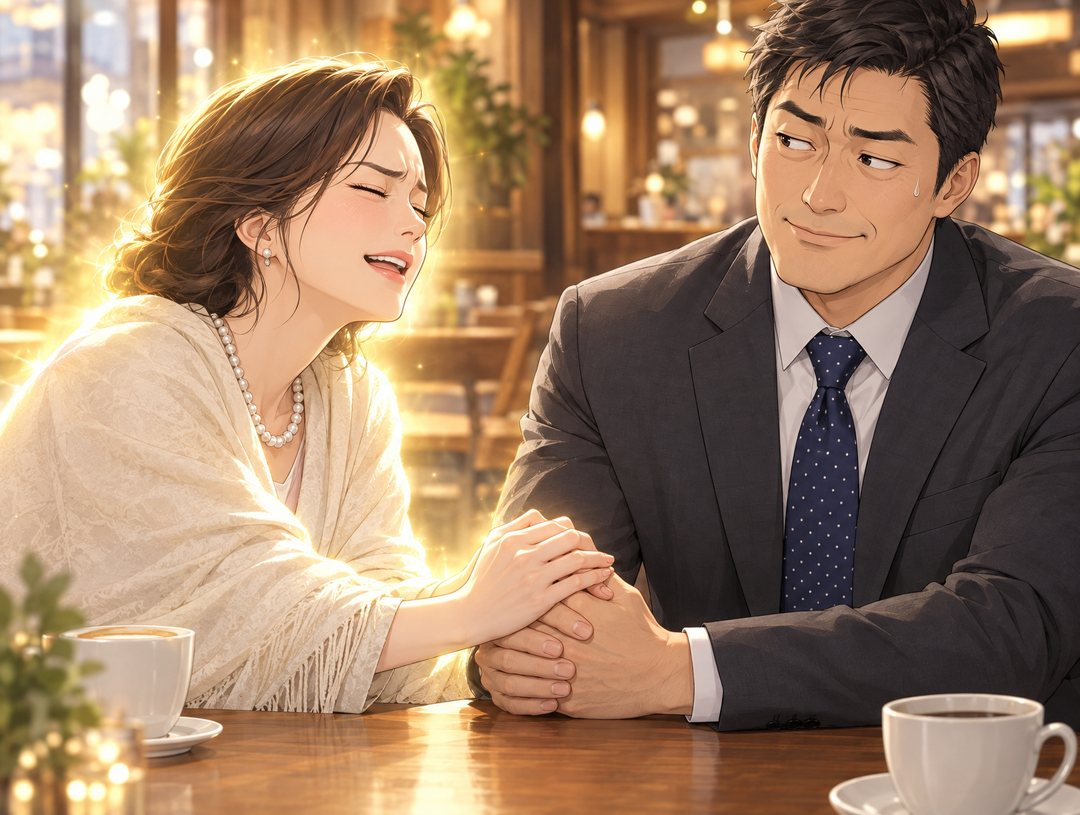
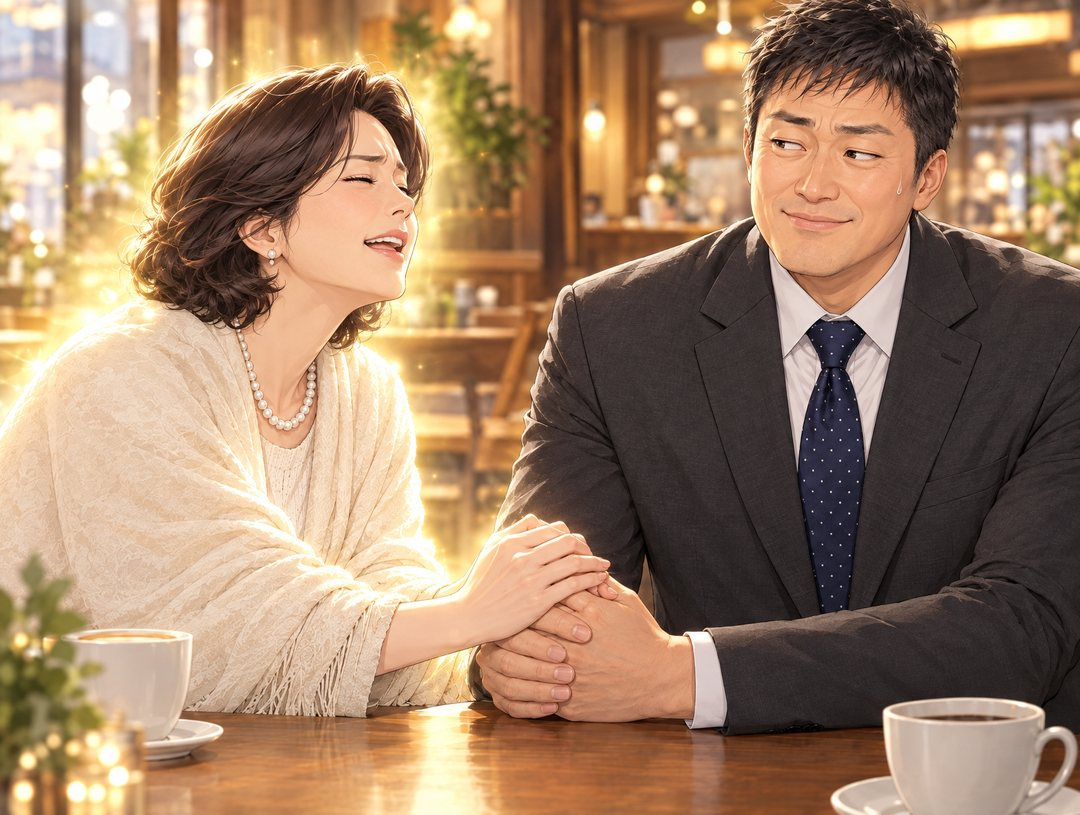
그림 일관성 수정 9컷, 모바일 글자 크기 확대

diff --git a/index.html b/index.html
@@ -17,6 +17,7 @@
 :root{--navy:#0d1830;--navy2:#16254a;--gold:#f2b544;--ink:#1b1f2a;--paper:#f6f3ee;--kim:#2c4a8a;--noh:#3a3f48;--lee:#2e6b66;--bad:#8a5a44;--jr:#7a5cc0}
 *{box-sizing:border-box;margin:0;padding:0}
 html{background:#0b1222}
+html{-webkit-text-size-adjust:100%;text-size-adjust:100%}
 body{font-family:Pretendard,-apple-system,"Apple SD Gothic Neo",sans-serif;color:var(--ink);background:var(--paper);max-width:720px;margin:0 auto;-webkit-font-smoothing:antialiased;word-break:keep-all;line-height:1.5}
 img{display:block;width:100%;height:auto}
 .panel{position:relative;margin:0}
@@ -25,75 +26,75 @@ img{display:block;width:100%;height:auto}
 .gap.l{height:56px}
 /* cover */
 .cover{position:relative;background:var(--navy);color:#fff;overflow:hidden}
-.cover img{opacity:.92}
+.cover img{opacity:.92;height:min(118vw,600px);object-fit:cover;object-position:50% 40%}
 .cover .shade{position:absolute;inset:0;background:linear-gradient(180deg,rgba(9,16,34,.0) 35%,rgba(9,16,34,.92) 100%)}
 .cover .t{position:absolute;left:0;right:0;bottom:0;padding:0 24px 26px}
-.kicker{display:inline-block;font-size:12px;font-weight:700;letter-spacing:.04em;color:var(--navy);background:var(--gold);padding:5px 10px;border-radius:999px}
+.kicker{display:inline-block;font-size:13px;font-weight:700;letter-spacing:.04em;color:var(--navy);background:var(--gold);padding:5px 10px;border-radius:999px}
 .cover h1{font-size:46px;line-height:1.08;font-weight:900;margin:12px 0 6px;letter-spacing:-.02em}
-.cover p{font-size:17px;font-weight:600;color:#dfe6f5}
+.cover p{font-size:19px;font-weight:600;color:#dfe6f5}
 /* narration */
-.nar{margin:0 22px;padding:14px 18px;background:var(--navy);color:#f3eee2;border-left:4px solid var(--gold);font-size:16.5px;font-weight:600;border-radius:4px}
+.nar{margin:0 16px;padding:15px 18px;background:var(--navy);color:#f3eee2;border-left:4px solid var(--gold);font-size:18.5px;line-height:1.55;font-weight:600;border-radius:4px}
 .nar b{color:var(--gold)}
 /* chapter */
 .chap{background:var(--navy);color:#fff;padding:34px 24px 30px;text-align:left}
-.chap .no{font-size:13px;font-weight:800;color:var(--gold);letter-spacing:.12em}
-.chap h2{font-size:28px;font-weight:900;margin:6px 0 4px;letter-spacing:-.01em}
-.chap .sub{font-size:15px;color:#b9c4dc;font-weight:500}
+.chap .no{font-size:14px;font-weight:800;color:var(--gold);letter-spacing:.12em}
+.chap h2{font-size:30px;font-weight:900;margin:6px 0 4px;letter-spacing:-.01em}
+.chap .sub{font-size:16.5px;color:#b9c4dc;font-weight:500}
 /* bubbles */
-.say{display:flex;flex-direction:column;padding:0 18px;gap:10px}
-.b{position:relative;max-width:84%;background:#fff;border:2px solid var(--ink);border-radius:22px;padding:11px 16px 12px;font-size:17px;font-weight:600;box-shadow:3px 3px 0 rgba(0,0,0,.08)}
-.b .who{display:block;font-size:11.5px;font-weight:800;letter-spacing:.02em;margin-bottom:3px;opacity:.9}
+.say{display:flex;flex-direction:column;padding:0 14px;gap:11px}
+.b{position:relative;max-width:90%;background:#fff;border:2px solid var(--ink);border-radius:22px;padding:12px 17px 13px;font-size:19px;line-height:1.5;font-weight:600;box-shadow:3px 3px 0 rgba(0,0,0,.08)}
+.b .who{display:block;font-size:13px;font-weight:800;letter-spacing:.02em;margin-bottom:3px;opacity:.9}
 .b.L{align-self:flex-start;border-bottom-left-radius:6px}
 .b.R{align-self:flex-end;border-bottom-right-radius:6px}
 .b.C{align-self:center}
 .b.think{border-style:dashed;background:#fbfaf6;color:#3b4150;font-weight:500}
-.b.shout{font-size:20px;font-weight:900;border-width:3px;transform:rotate(-1deg)}
+.b.shout{font-size:22px;font-weight:900;border-width:3px;transform:rotate(-1deg)}
 .b.phone{background:#eef6ff;border-color:#4b7bd1;border-radius:14px}
 .b.phone .who{color:#2d5fb8}
 .kim .who{color:var(--kim)} .noh .who{color:var(--noh)} .lee .who{color:var(--lee)} .bad .who{color:var(--bad)} .jr .who{color:var(--jr)}
 .kim{border-color:var(--kim)} .noh{border-color:#2a2e35} .lee{border-color:var(--lee)} .bad{border-color:#9b7a66} .jr{border-color:var(--jr)}
 .b.think{border-color:#9aa1ad}
-.sfx{text-align:center;font-weight:900;font-size:26px;color:var(--navy2);letter-spacing:.06em;transform:rotate(-3deg)}
+.sfx{text-align:center;font-weight:900;font-size:30px;color:var(--navy2);letter-spacing:.06em;transform:rotate(-3deg)}
 /* cast */
 .cast{display:grid;grid-template-columns:repeat(3,1fr);gap:8px;padding:0 14px}
 .cast>div{background:#fff;border-radius:12px;padding:12px 8px;text-align:center;border:1px solid #e3ddd2}
-.cast .r{font-size:12px;color:#6b7280;font-weight:700}
-.cast .n{font-size:17px;font-weight:900;margin:2px 0}
-.cast .j{display:inline-block;font-size:12px;font-weight:800;color:#fff;padding:3px 9px;border-radius:999px;margin-top:3px}
+.cast .r{font-size:13.5px;color:#6b7280;font-weight:700}
+.cast .n{font-size:19px;font-weight:900;margin:2px 0}
+.cast .j{display:inline-block;font-size:13.5px;font-weight:800;color:#fff;padding:3px 9px;border-radius:999px;margin-top:3px}
 /* tip */
-.tip{margin:0 18px;background:#fff7e3;border:1.5px solid #e9c46a;border-radius:14px;padding:15px 17px}
-.tip h4{font-size:14px;font-weight:900;color:#8a5a00;margin-bottom:6px}
-.tip p{font-size:15px;font-weight:500;color:#3a3324}
-.tip ul{margin:6px 0 0 18px;font-size:15px;color:#3a3324}
+.tip{margin:0 14px;background:#fff7e3;border:1.5px solid #e9c46a;border-radius:14px;padding:15px 17px}
+.tip h4{font-size:16px;font-weight:900;color:#8a5a00;margin-bottom:6px}
+.tip p{font-size:17px;line-height:1.6;font-weight:500;color:#3a3324}
+.tip ul{margin:6px 0 0 18px;font-size:17px;line-height:1.6;color:#3a3324}
 /* phone ui */
-.phoneui{margin:0 auto;width:250px;border-radius:34px;background:#111;padding:10px;box-shadow:0 14px 30px rgba(0,0,0,.25)}
+.phoneui{margin:0 auto;width:270px;border-radius:34px;background:#111;padding:10px;box-shadow:0 14px 30px rgba(0,0,0,.25)}
 .phoneui .scr{border-radius:26px;min-height:300px;padding:26px 18px 22px;color:#fff;text-align:center;display:flex;flex-direction:column;justify-content:space-between}
 .call{background:linear-gradient(180deg,#3b4a63,#1a2233)}
-.call .cap{font-size:12px;opacity:.75}
-.call .nm{font-size:25px;font-weight:800;margin-top:6px}
-.call .sb{font-size:13px;opacity:.75;margin-top:3px}
+.call .cap{font-size:14px;opacity:.75}
+.call .nm{font-size:27px;font-weight:800;margin-top:6px}
+.call .sb{font-size:15px;opacity:.75;margin-top:3px}
 .call .btns{display:flex;justify-content:space-around;margin-top:40px}
-.call .btns span{width:56px;height:56px;border-radius:50%;display:flex;align-items:center;justify-content:center;font-size:12px;font-weight:700}
+.call .btns span{width:56px;height:56px;border-radius:50%;display:flex;align-items:center;justify-content:center;font-size:14px;font-weight:700}
 .call .no{background:#e5484d}.call .yes{background:#30a46c}
 .phoneui .bank{background:#fff;color:#111;text-align:left}
-.bank .cap{font-size:12px;color:#6b7280}
+.bank .cap{font-size:14px;color:#6b7280}
 .bank .amt{font-size:30px;font-weight:900;margin:6px 0 2px}
-.bank .to{font-size:14px;color:#374151}
-.bank .warn{font-size:11.5px;color:#9ca3af;margin-top:10px}
-.bank .go{margin-top:30px;background:#3182f6;color:#fff;border-radius:14px;text-align:center;padding:14px;font-weight:800;font-size:16px}
+.bank .to{font-size:16px;color:#374151}
+.bank .warn{font-size:13.5px;color:#9ca3af;margin-top:10px}
+.bank .go{margin-top:30px;background:#3182f6;color:#fff;border-radius:14px;text-align:center;padding:14px;font-weight:800;font-size:17px}
 /* end */
 .verse{background:var(--navy);color:#fff;padding:38px 26px;text-align:center}
-.verse q{display:block;font-size:20px;line-height:1.6;font-weight:700;quotes:none;color:#f6f0e0}
+.verse q{display:block;font-size:21px;line-height:1.6;font-weight:700;quotes:none;color:#f6f0e0}
 .verse q em{font-style:normal;color:var(--gold)}
-.verse cite{display:block;margin-top:12px;font-size:13px;color:#aab6d0;font-style:normal}
+.verse cite{display:block;margin-top:12px;font-size:14.5px;color:#aab6d0;font-style:normal}
 .end{background:#0b1222;color:#e8ecf5;padding:34px 24px 46px;text-align:center}
-.end .t1{font-size:15px;color:#aab6d0;font-weight:600}
+.end .t1{font-size:16.5px;color:#aab6d0;font-weight:600}
 .end .t2{font-size:26px;font-weight:900;margin:8px 0 4px;color:#fff}
-.end .t3{font-size:17px;font-weight:700;color:var(--gold)}
-.end .t4{font-size:15px;margin-top:14px;color:#cfd7e8}
-.end a.btn{display:inline-block;margin-top:22px;background:var(--gold);color:var(--navy);font-weight:900;font-size:16px;padding:13px 22px;border-radius:999px;text-decoration:none}
-.end .fine{margin-top:26px;font-size:11.5px;color:#7d8aa6;line-height:1.6}
-.top{position:sticky;top:0;z-index:5;background:rgba(13,24,48,.92);backdrop-filter:blur(8px);color:#fff;font-size:12.5px;font-weight:700;padding:9px 16px;display:flex;justify-content:space-between}
+.end .t3{font-size:18.5px;font-weight:700;color:var(--gold)}
+.end .t4{font-size:17px;margin-top:14px;color:#cfd7e8}
+.end a.btn{display:inline-block;margin-top:22px;background:var(--gold);color:var(--navy);font-weight:900;font-size:17px;padding:14px 24px;border-radius:999px;text-decoration:none}
+.end .fine{margin-top:26px;font-size:13px;color:#7d8aa6;line-height:1.6}
+.top{position:sticky;top:0;z-index:5;background:rgba(13,24,48,.92);backdrop-filter:blur(8px);color:#fff;font-size:13.5px;font-weight:700;padding:10px 16px;display:flex;justify-content:space-between}
 .top span:last-child{color:var(--gold)}
 </style>
 </head>
@@ -147,7 +148,7 @@ const S=[
 ['gap'],
 ['img','s08'],
 ['gap'],
-['say',[['L',B,'낯선 여성','목사님! 명함 잘 받았어요!<br>저희 진짜 한번 찾아갈게요!'],['L',B,'낯선 남성','목사님! 가방! 가방은 두고 가시면 안 되지예!'],['R',K+' shout',NM.kim,'CTS 틀어놓고 기다리겠심더~!!']]],
+['say',[['L',B,'낯선 여성','목사님! 명함 잘 받았어요!<br>저희 진짜 한번 찾아갈게요!'],['L',B,'낯선 남성','목사님! 가방! 가방은 두고 가시면 안 되지예!'],['R',K+' shout',NM.kim,'CTS 틀어놓고 <span style="white-space:nowrap">기다리겠심더~!!</span>']]],
 ['gap'],
 ['tip','이런 접근은 조심하세요','길에서 처음 본 사람이 <b>“인상이 좋으시네요”, “조상님 덕”, “기운이 맑으시네요”</b>로 말을 걸면 정중히 지나가세요. <br>(목사님이 아니시라면요.)'],
 ['gap','l'],
@@ -248,8 +249,8 @@ const app=document.getElementById('app');
 const h=(t,c,html)=>{const e=document.createElement(t);if(c)e.className=c;if(html!=null)e.innerHTML=html;return e};
 for(const it of S){
   const k=it[0];
-  if(k==='cover'){const d=h('section','cover');d.innerHTML='<img src="s01.jpg" alt="부산, 전주, 청주에서 대전으로 모이는 세 갈래 빛"><div class="shade"></div><div class="t"><span class="kicker">AI First 엑소더스 · 킥오프 특별편</span><h1>세 겹 줄</h1><p>총국장님들의 대전 가는 길</p></div>';app.append(d)}
-  else if(k==='img'){const f=h('figure','panel');f.innerHTML=`<img loading="lazy" src="${it[1]}.jpg" alt="">`;app.append(f)}
+  if(k==='cover'){const d=h('section','cover');d.innerHTML='<img src="s01.jpg?v=3" alt="부산, 전주, 청주에서 대전으로 모이는 세 갈래 빛"><div class="shade"></div><div class="t"><span class="kicker">AI First 엑소더스 · 킥오프 특별편</span><h1>세 겹 줄</h1><p>총국장님들의 대전 가는 길</p></div>';app.append(d)}
+  else if(k==='img'){const f=h('figure','panel');f.innerHTML=`<img loading="lazy" src="${it[1]}.jpg?v=3" alt="">`;app.append(f)}
   else if(k==='gap'){app.append(h('div','gap'+(it[1]?' '+it[1]:'')))}
   else if(k==='nar'){app.append(h('div','nar',it[1]))}
   else if(k==='sfx'){app.append(h('div','sfx',it[1]))}
@@ -261,8 +262,8 @@ for(const it of S){
     if(it[1]==='call') app.append(h('div','phoneui','<div class="scr call"><div><div class="cap">휴대전화 · 수신 전화</div><div class="nm">담임목사님</div><div class="sb">오전 7:52</div></div><div class="btns"><span class="no">거절</span><span class="yes">수락</span></div></div>'));
     else app.append(h('div','phoneui','<div class="scr bank"><div><div class="cap">이체 확인</div><div class="amt">3,000,000원</div><div class="to">받는 분 · (주)글로벌미션센터</div><div class="warn">처음 보내는 계좌입니다</div></div><div class="go">보내기</div></div>'));
   }
-  else if(k==='verse'){app.append(h('section','verse','<q>한 사람이면 패하겠거니와 두 사람이면 맞설 수 있나니<br><em>세 겹 줄은 쉽게 끊어지지 아니하느니라</em></q><cite>전도서 4장 12절 (개역개정)</cite>'))}
-  else if(k==='end'){app.append(h('section','end','<div class="t1">목사, 장로, 안수집사, 그리고 우리 모두</div><div class="t2">AI First 엑소더스<br>킥오프 워크숍</div><div class="t3">11월 9일(월) 오전 10시 · 대전 디스테이션 10층</div><div class="t4">오는 길의 방해는 다 이겨내고 오세요.<br>대전에서 만나요!</div><a class="btn" href="https://bakcine1-boop.github.io/cts-lunch-1109/">워크숍 일정·안내 보기</a><div class="fine">이 웹툰은 워크숍을 위해 재미로 꾸민 이야기이며, 등장인물의 실제 경험과 다릅니다.<br>그림은 AI로 만들었습니다 · CTS 광역본부 콘텐츠지원국</div>'))}
+  else if(k==='verse'){app.append(h('section','verse','<q>한 사람이면 패하겠거니와<br>두 사람이면 맞설 수 있나니<br><em>세 겹 줄은 쉽게<br>끊어지지 아니하느니라</em></q><cite>전도서 4장 12절 (개역개정)</cite>'))}
+  else if(k==='end'){app.append(h('section','end','<div class="t1">목사, 장로, 안수집사, 그리고 우리 모두</div><div class="t2">AI First 엑소더스<br>킥오프 워크숍</div><div class="t3">11월 9일(월) 오전 10시<br>대전 디스테이션 10층</div><div class="t4">오는 길의 방해는 다 이겨내고 오세요.<br>대전에서 만나요!</div><a class="btn" href="https://bakcine1-boop.github.io/cts-lunch-1109/">워크숍 일정·안내 보기</a><div class="fine">이 웹툰은 워크숍을 위해 재미로 꾸민 이야기이며, 등장인물의 실제 경험과 다릅니다.<br>그림은 AI로 만들었습니다 · CTS 광역본부 콘텐츠지원국</div>'))}
 }
 </script>
 </body>
